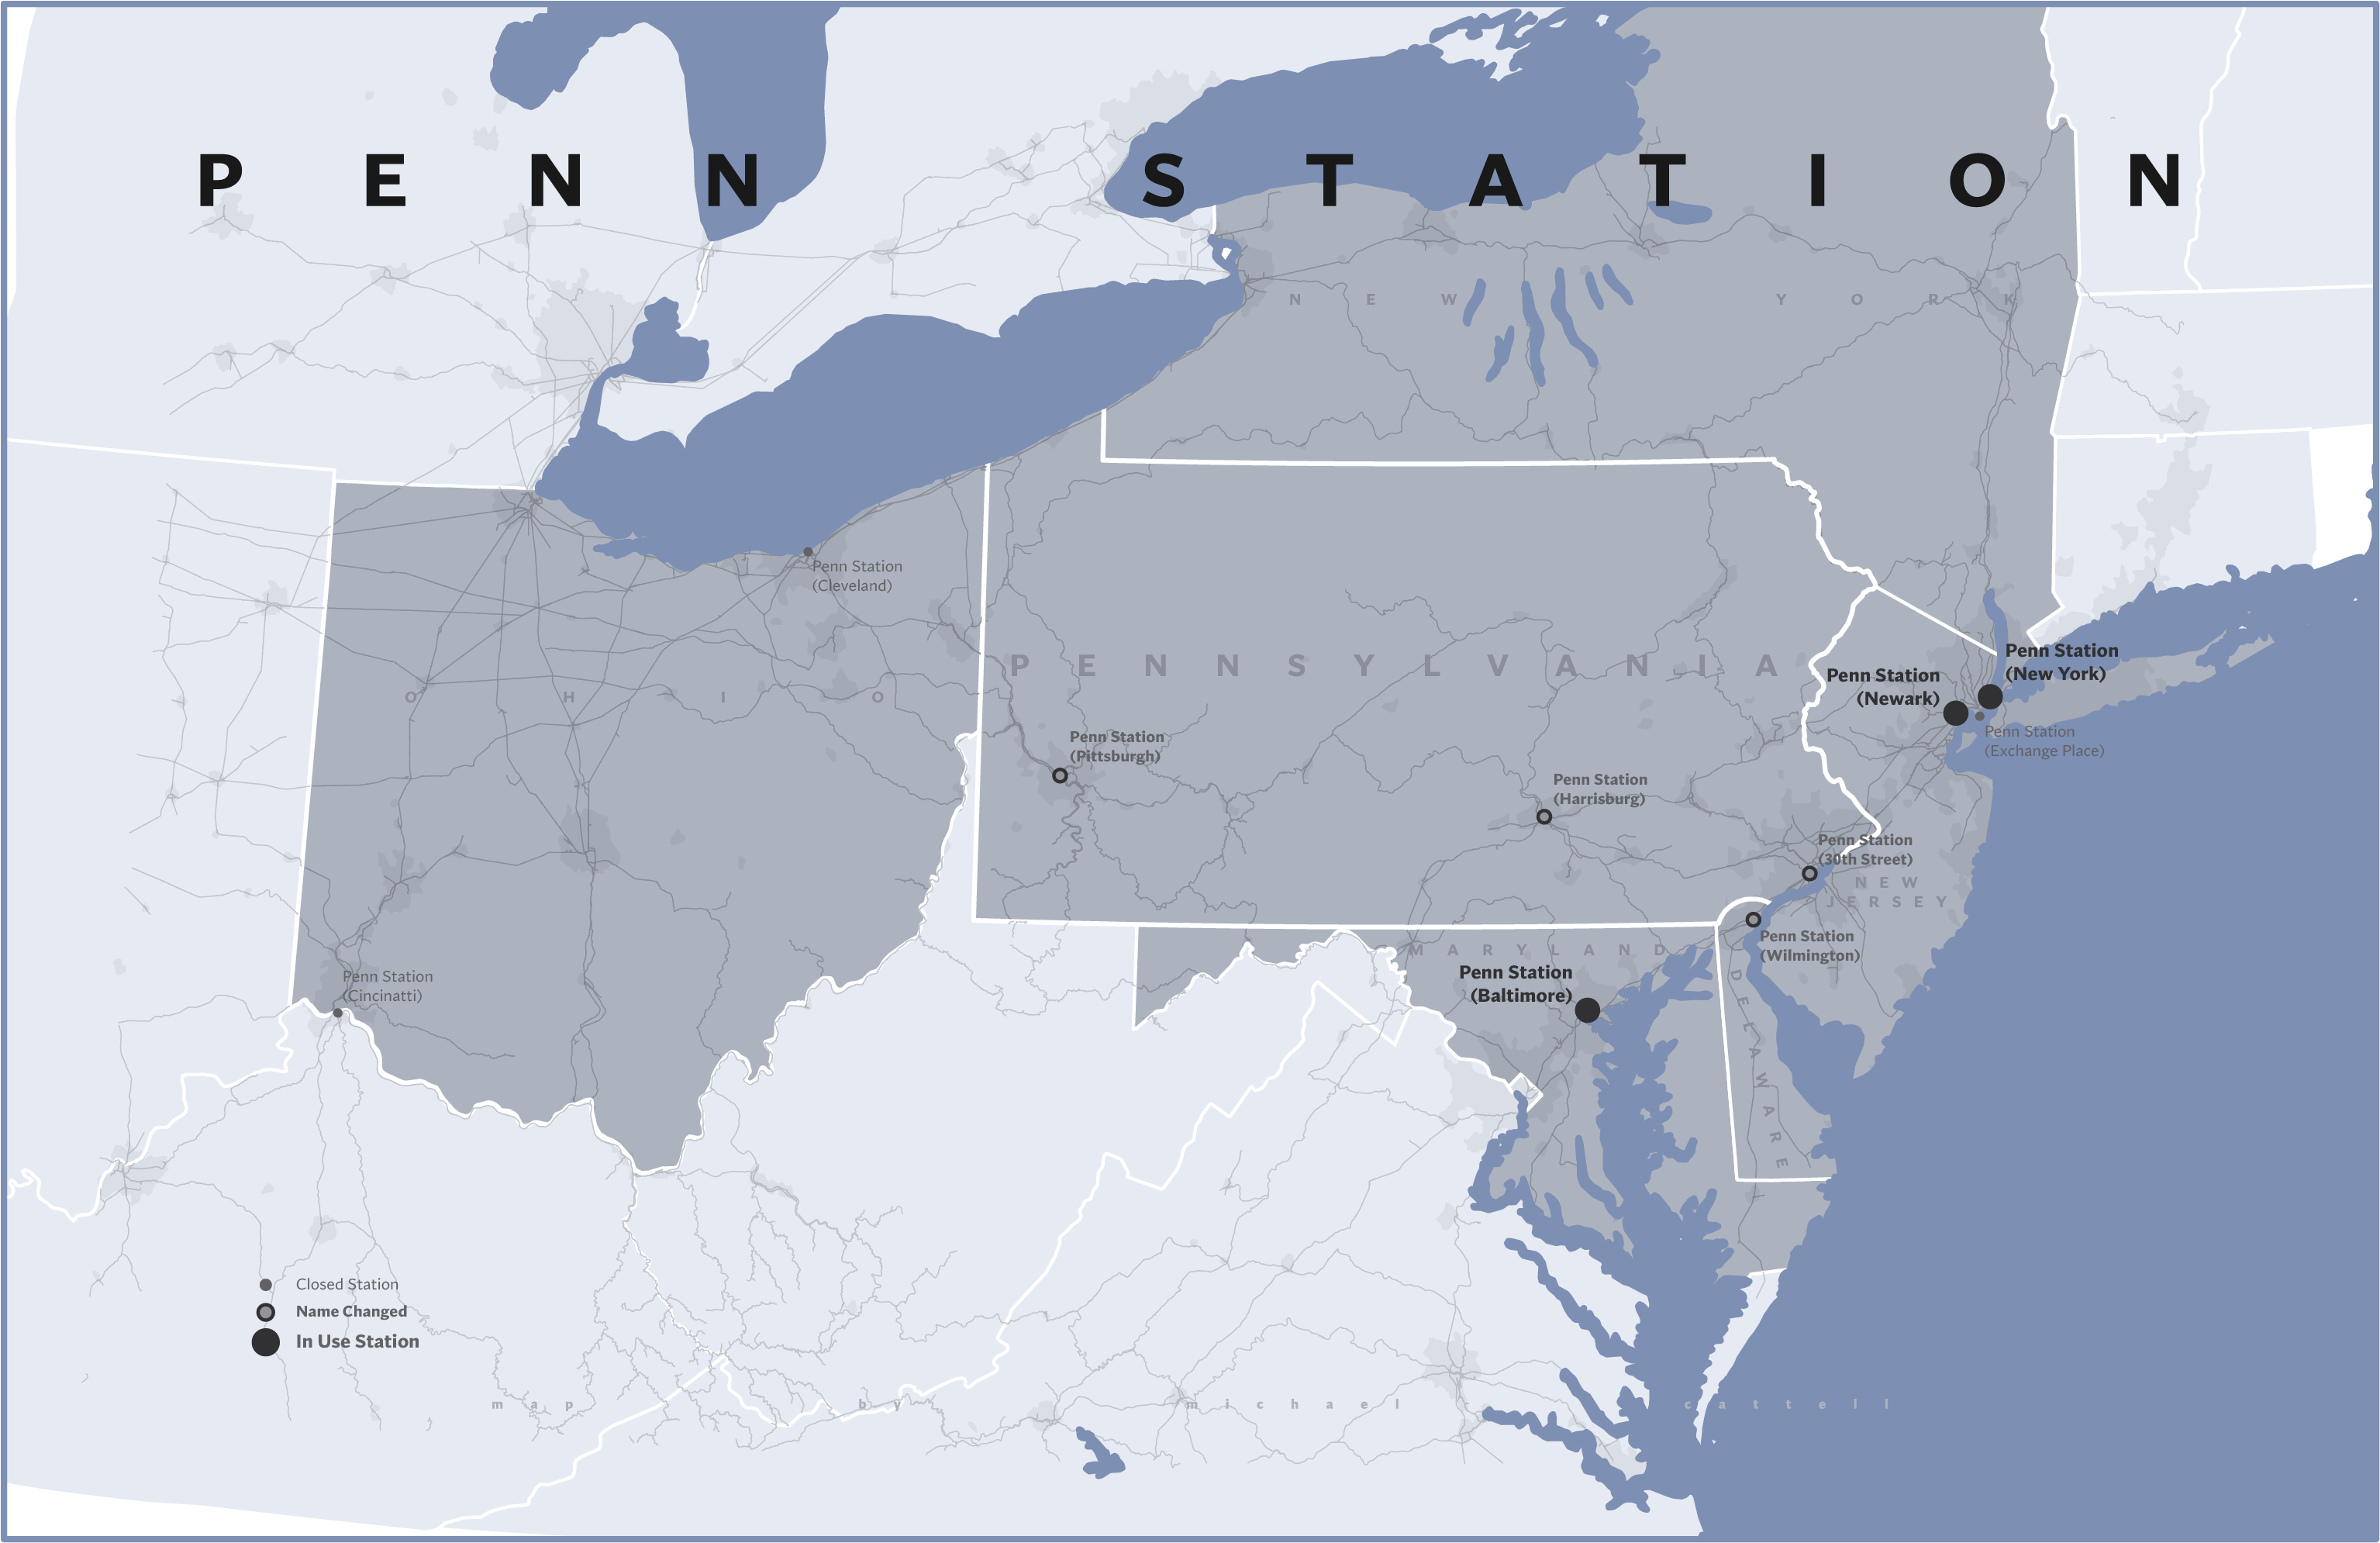
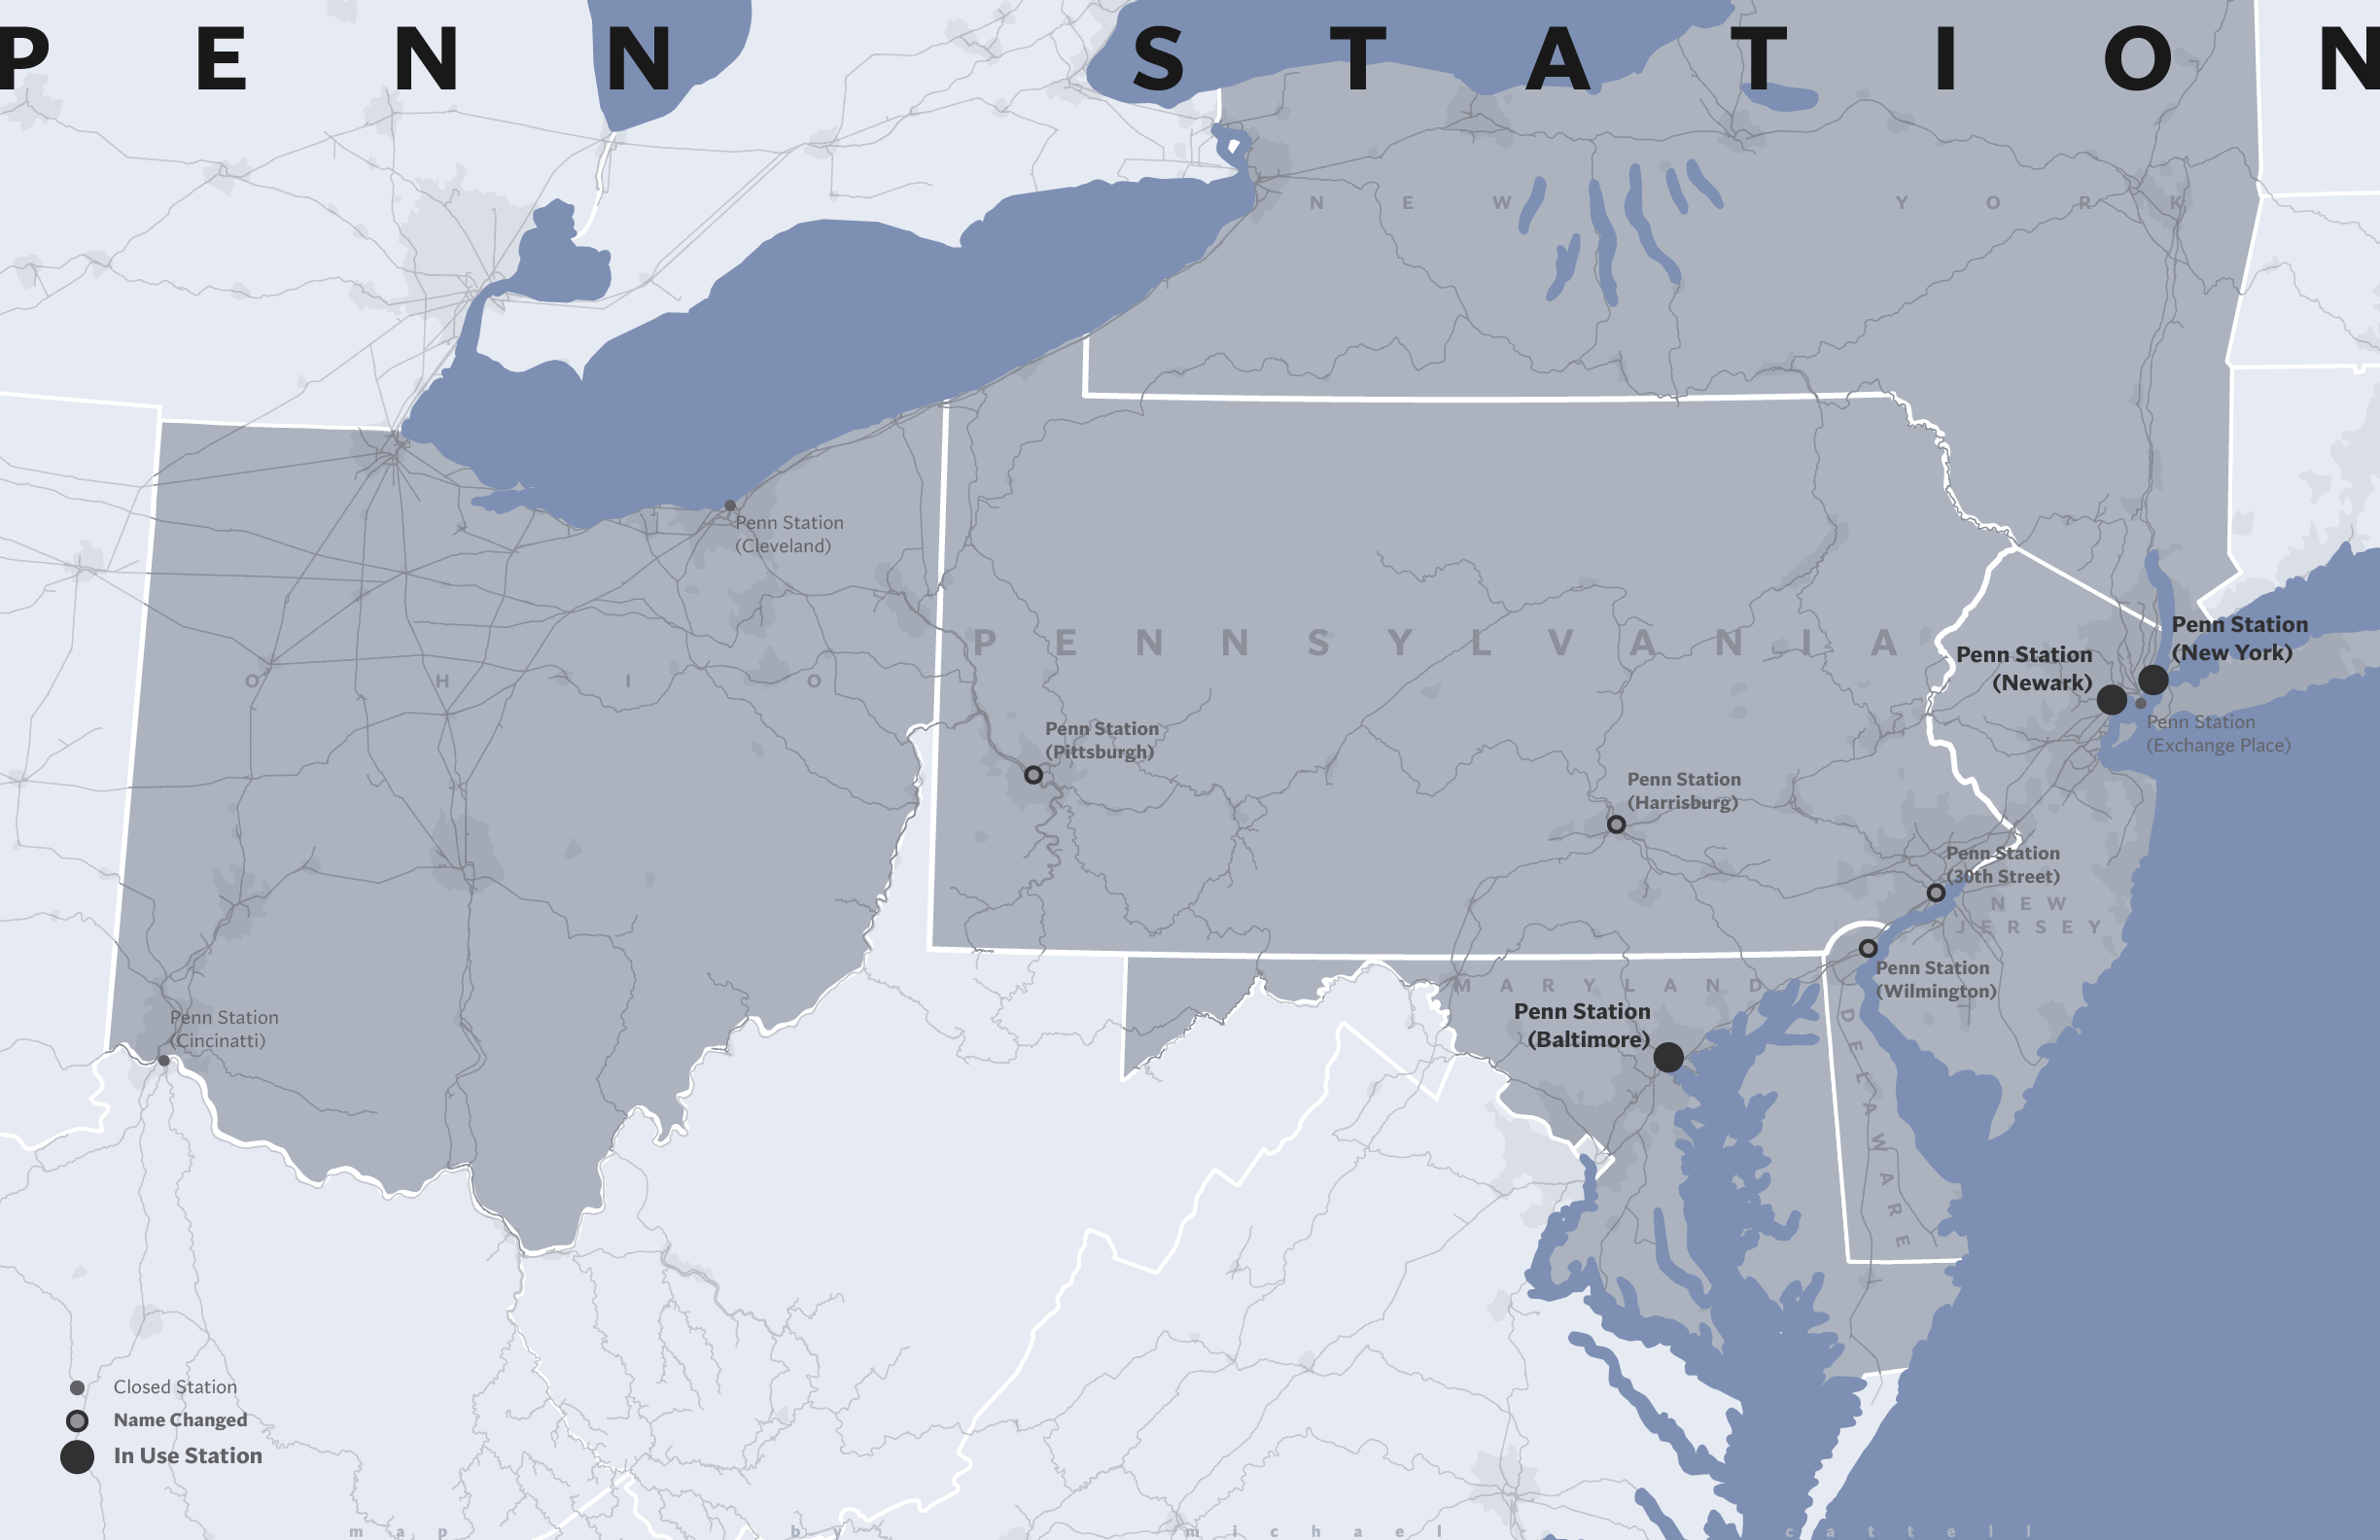
updated website but for real this time

diff --git a/portfolio.html b/portfolio.html
@@ -13,6 +13,7 @@
             <h3><a href="index.html">michael cattell</a></h3>
             <nav>
                 <ul class="navlist">
+                    <li><a href="public_work.html">my work in public</a></li>
                     <li><a href="portfolio.html">portfolio</a></li>
                     <li><a href="contact.html">contact</a></li>
                     <li><a href="about.html">about</a></li>
@@ -22,13 +23,17 @@
     </div>
     <div>
         <h1>project portfolio</h1>
-        <p style="text-align: center;">this page does not include work done through employment with the commonwealth of pennsylvania.</p>
+        <p style="text-align: center;">this page does not include my work done through employment with the commonwealth of pennsylvania.</p>
     </div>
     <div class="project_container">
         <h2>2026</h2>
         <div class="projectrows" onClick="window.open( 'pa_highway.html','_top' ); return false;">
             <img src="images/projects/pa_highway.png" class="projectrows_image">
             <h2 class="projectrows_title">pennsylvania highways, transit-style</h2>
+        </div>
+        <div class="projectrows" onClick="window.open( 'penn_station.html','_top' ); return false;">
+            <img src="images/projects/penn_station.png" class="projectrows_image">
+            <h2 class="projectrows_title">where are there penn stations?</h2>
         </div>
         <h2>2025</h2>
         <div class="projectrows" onClick="window.open( 'septa.html','_top' ); return false;">

diff --git a/index.html b/index.html
@@ -14,8 +14,8 @@
                 <h3><a href="index.html">michael cattell</a></h3>
                 <nav>
                     <ul class="navlist">
+                        <li><a href="public_work.html">my work in public</a></li>
                         <li><a href="portfolio.html">portfolio</a></li>
-                        <li><a href="contact.html">contact</a></li>
                         <li><a href="contact.html">contact</a></li>
                         <li><a href="about.html">about</a></li>
                     </ul>

diff --git a/public_work.html b/public_work.html
@@ -26,6 +26,8 @@
         <p style="text-align: center;">links showing where my work has been published or featured.</p>
     </div>
     <div class="project_container">
+        <h1>2026</h1>
+        <a href="https://www.linkedin.com/posts/penndot_the-2026-construction-season-is-underway-activity-7445840037432193024-Vq5U?utm_source=share&utm_medium=member_desktop&rcm=ACoAADDFOloB03UKAuM7njbFU8KStFnobf-uLpA"><p class="linktext">construction maps for the pennsylvania department of transportation</p></a>
         <h1>2025</h1>
         <a href="https://www.advancedequity.org/briefs/whotakescalculus"><p class="linktext">student enrollment research brief about disparities in calculus enrollment in u.s. public schools</p></a>
         <a href="https://www.advancedequity.org/briefs/cp-history-overview"><p class="linktext">student discipline research brief i wrote about corporal punishment in u.s. public schools</p></a>

diff --git a/about.html b/about.html
@@ -13,6 +13,7 @@
             <h3><a href="index.html">michael cattell</a></h3>
             <nav>
                 <ul class="navlist">
+                    <li><a href="public_work.html">my work in public</a></li>
                     <li><a href="portfolio.html">portfolio</a></li>
                     <li><a href="contact.html">contact</a></li>
                     <li><a href="about.html">about</a></li>

diff --git a/baka.html b/baka.html
@@ -11,6 +11,7 @@
             <h3><a href="index.html">michael cattell</a></h3>
             <nav>
                 <ul class="navlist">
+                    <li><a href="public_work.html">my work in public</a></li>
                     <li><a href="portfolio.html">portfolio</a></li>
                     <li><a href="contact.html">contact</a></li>
                     <li><a href="about.html">about</a></li>

diff --git a/bfc.html b/bfc.html
@@ -14,6 +14,7 @@
             <h3><a href="index.html">michael cattell</a></h3>
             <nav>
                 <ul class="navlist">
+                    <li><a href="public_work.html">my work in public</a></li>
                     <li><a href="portfolio.html">portfolio</a></li>
                     <li><a href="contact.html">contact</a></li>
                     <li><a href="about.html">about</a></li>

diff --git a/contact.html b/contact.html
@@ -13,6 +13,7 @@
             <h3><a href="index.html">michael cattell</a></h3>
             <nav>
                 <ul class="navlist">
+                    <li><a href="public_work.html">my work in public</a></li>
                     <li><a href="portfolio.html">portfolio</a></li>
                     <li><a href="contact.html">contact</a></li>
                     <li><a href="about.html">about</a></li>

diff --git a/pa_highway.html b/pa_highway.html
@@ -11,6 +11,7 @@
             <h3><a href="index.html">michael cattell</a></h3>
             <nav>
                 <ul class="navlist">
+                    <li><a href="public_work.html">my work in public</a></li>
                     <li><a href="portfolio.html">portfolio</a></li>
                     <li><a href="contact.html">contact</a></li>
                     <li><a href="about.html">about</a></li>

diff --git a/pactb.html b/pactb.html
@@ -11,6 +11,7 @@
             <h3><a href="index.html">michael cattell</a></h3>
             <nav>
                 <ul class="navlist">
+                    <li><a href="public_work.html">my work in public</a></li>
                     <li><a href="portfolio.html">portfolio</a></li>
                     <li><a href="contact.html">contact</a></li>
                     <li><a href="about.html">about</a></li>

diff --git a/scclt_map.html b/scclt_map.html
@@ -11,6 +11,7 @@
             <h3><a href="index.html">michael cattell</a></h3>
             <nav>
                 <ul class="navlist">
+                    <li><a href="public_work.html">my work in public</a></li>
                     <li><a href="portfolio.html">portfolio</a></li>
                     <li><a href="contact.html">contact</a></li>
                     <li><a href="about.html">about</a></li>

diff --git a/stu_dis.html b/stu_dis.html
@@ -14,6 +14,7 @@
             <h3><a href="index.html">michael cattell</a></h3>
             <nav>
                 <ul class="navlist">
+                    <li><a href="public_work.html">my work in public</a></li>
                     <li><a href="portfolio.html">portfolio</a></li>
                     <li><a href="contact.html">contact</a></li>
                     <li><a href="about.html">about</a></li>